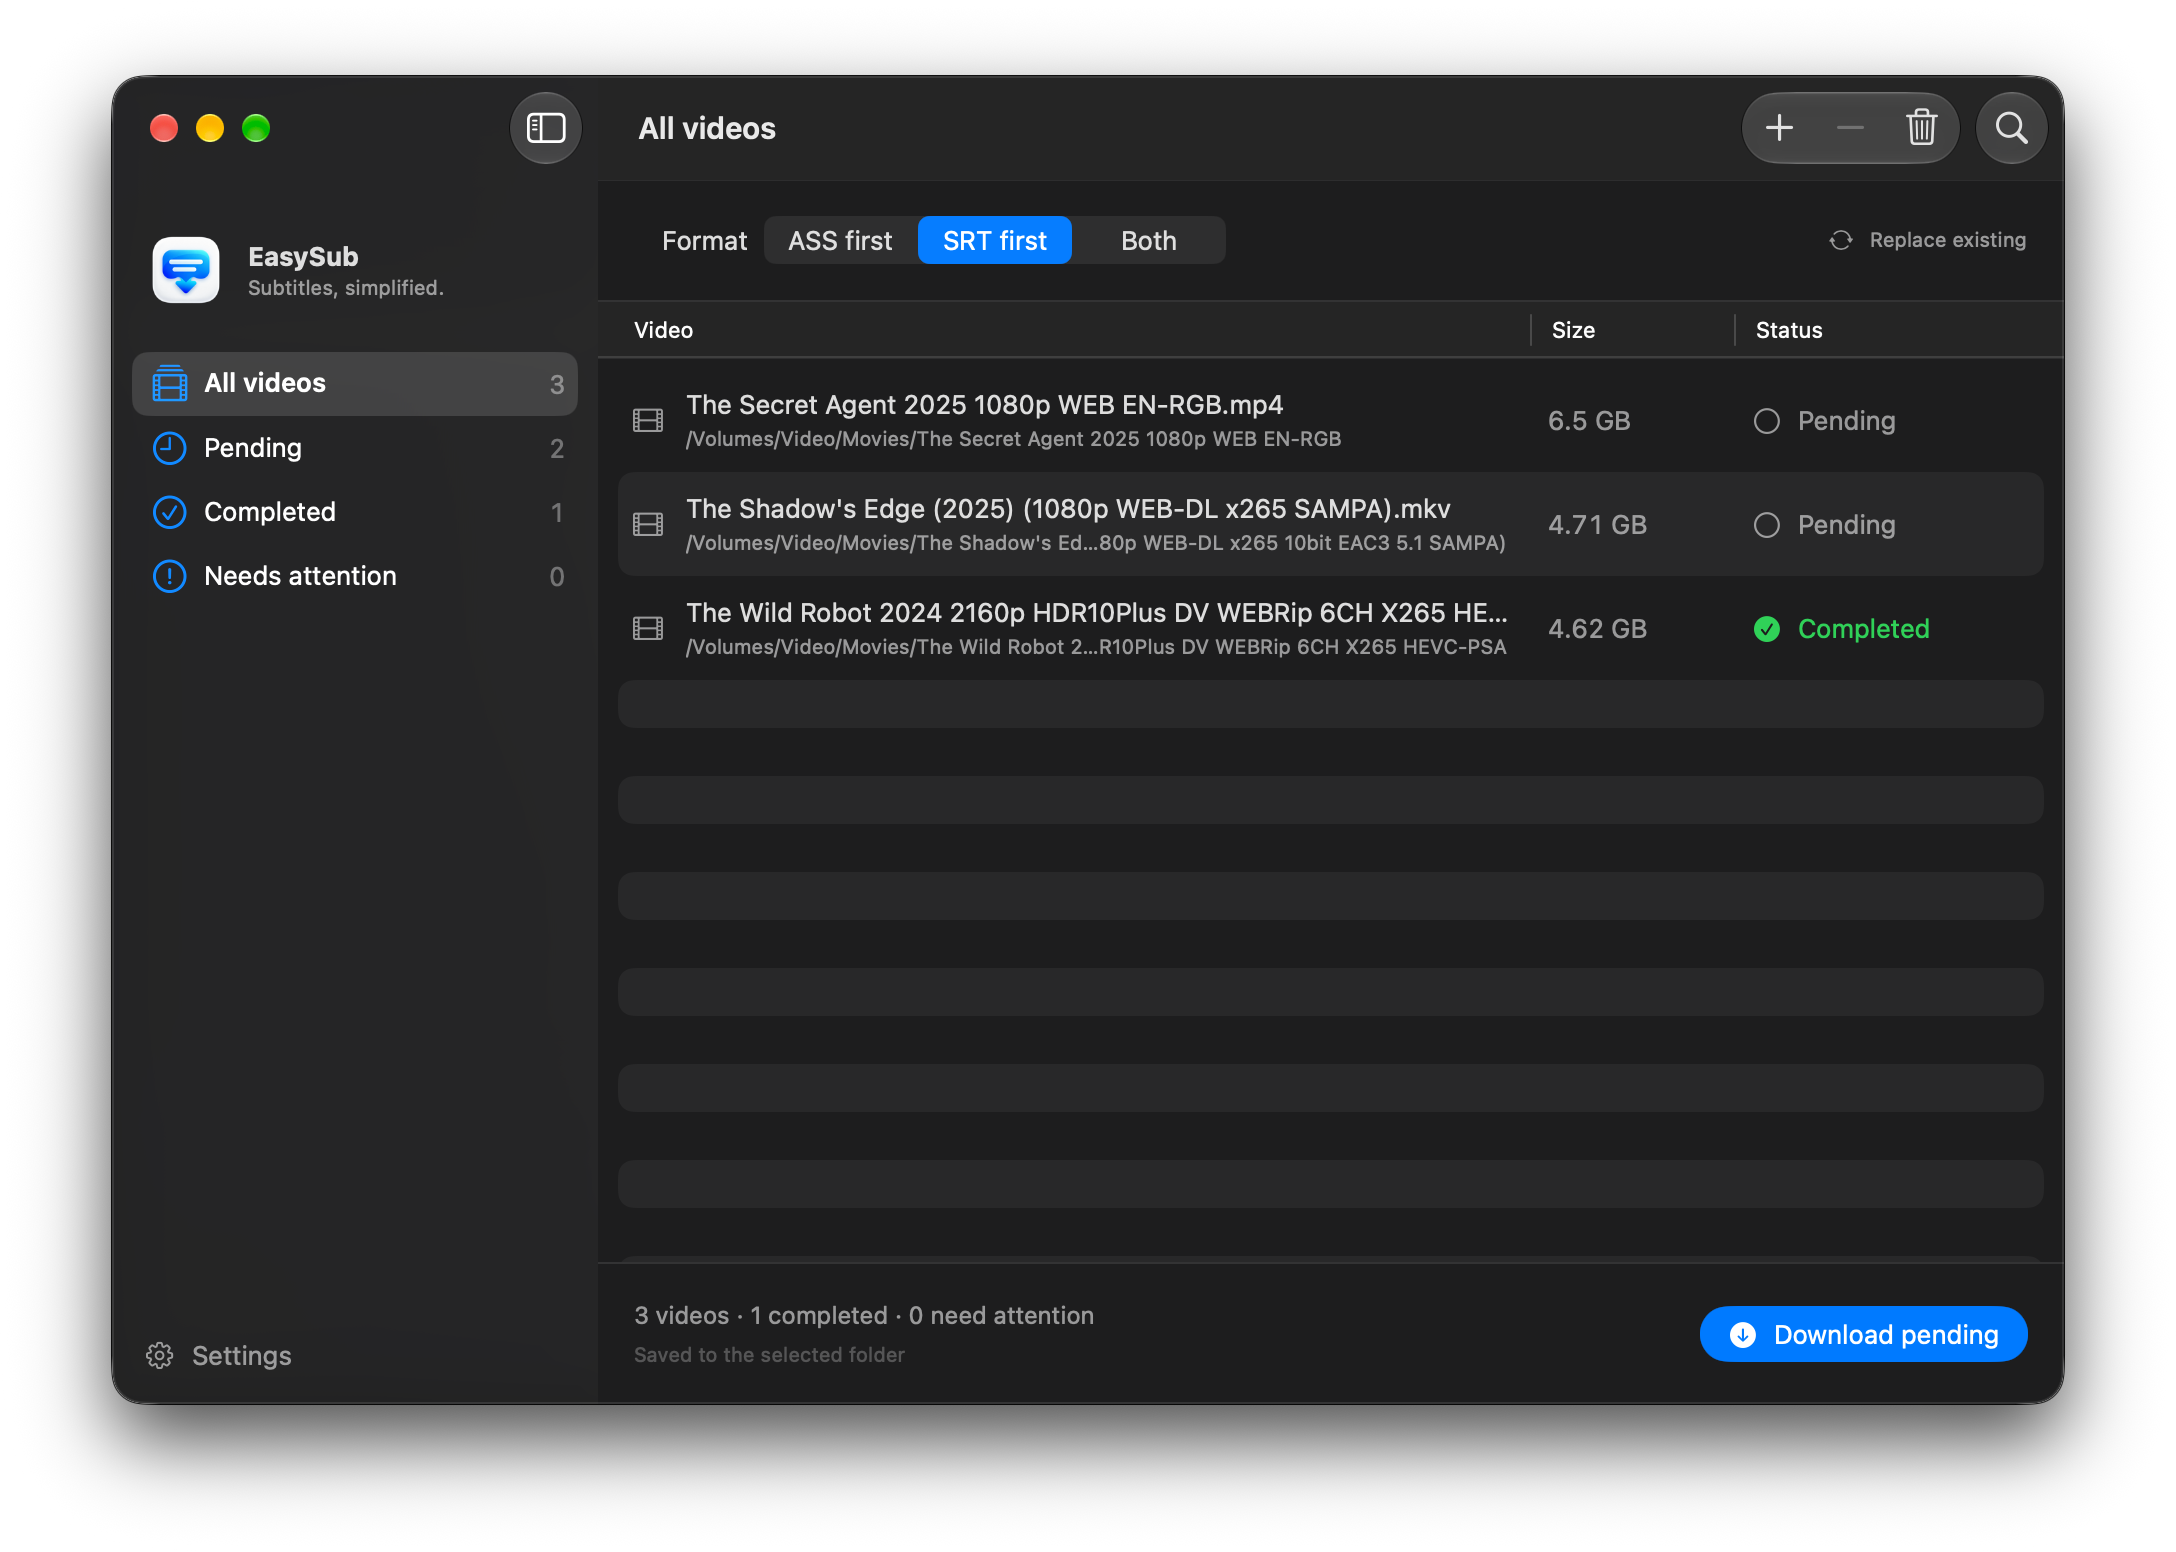
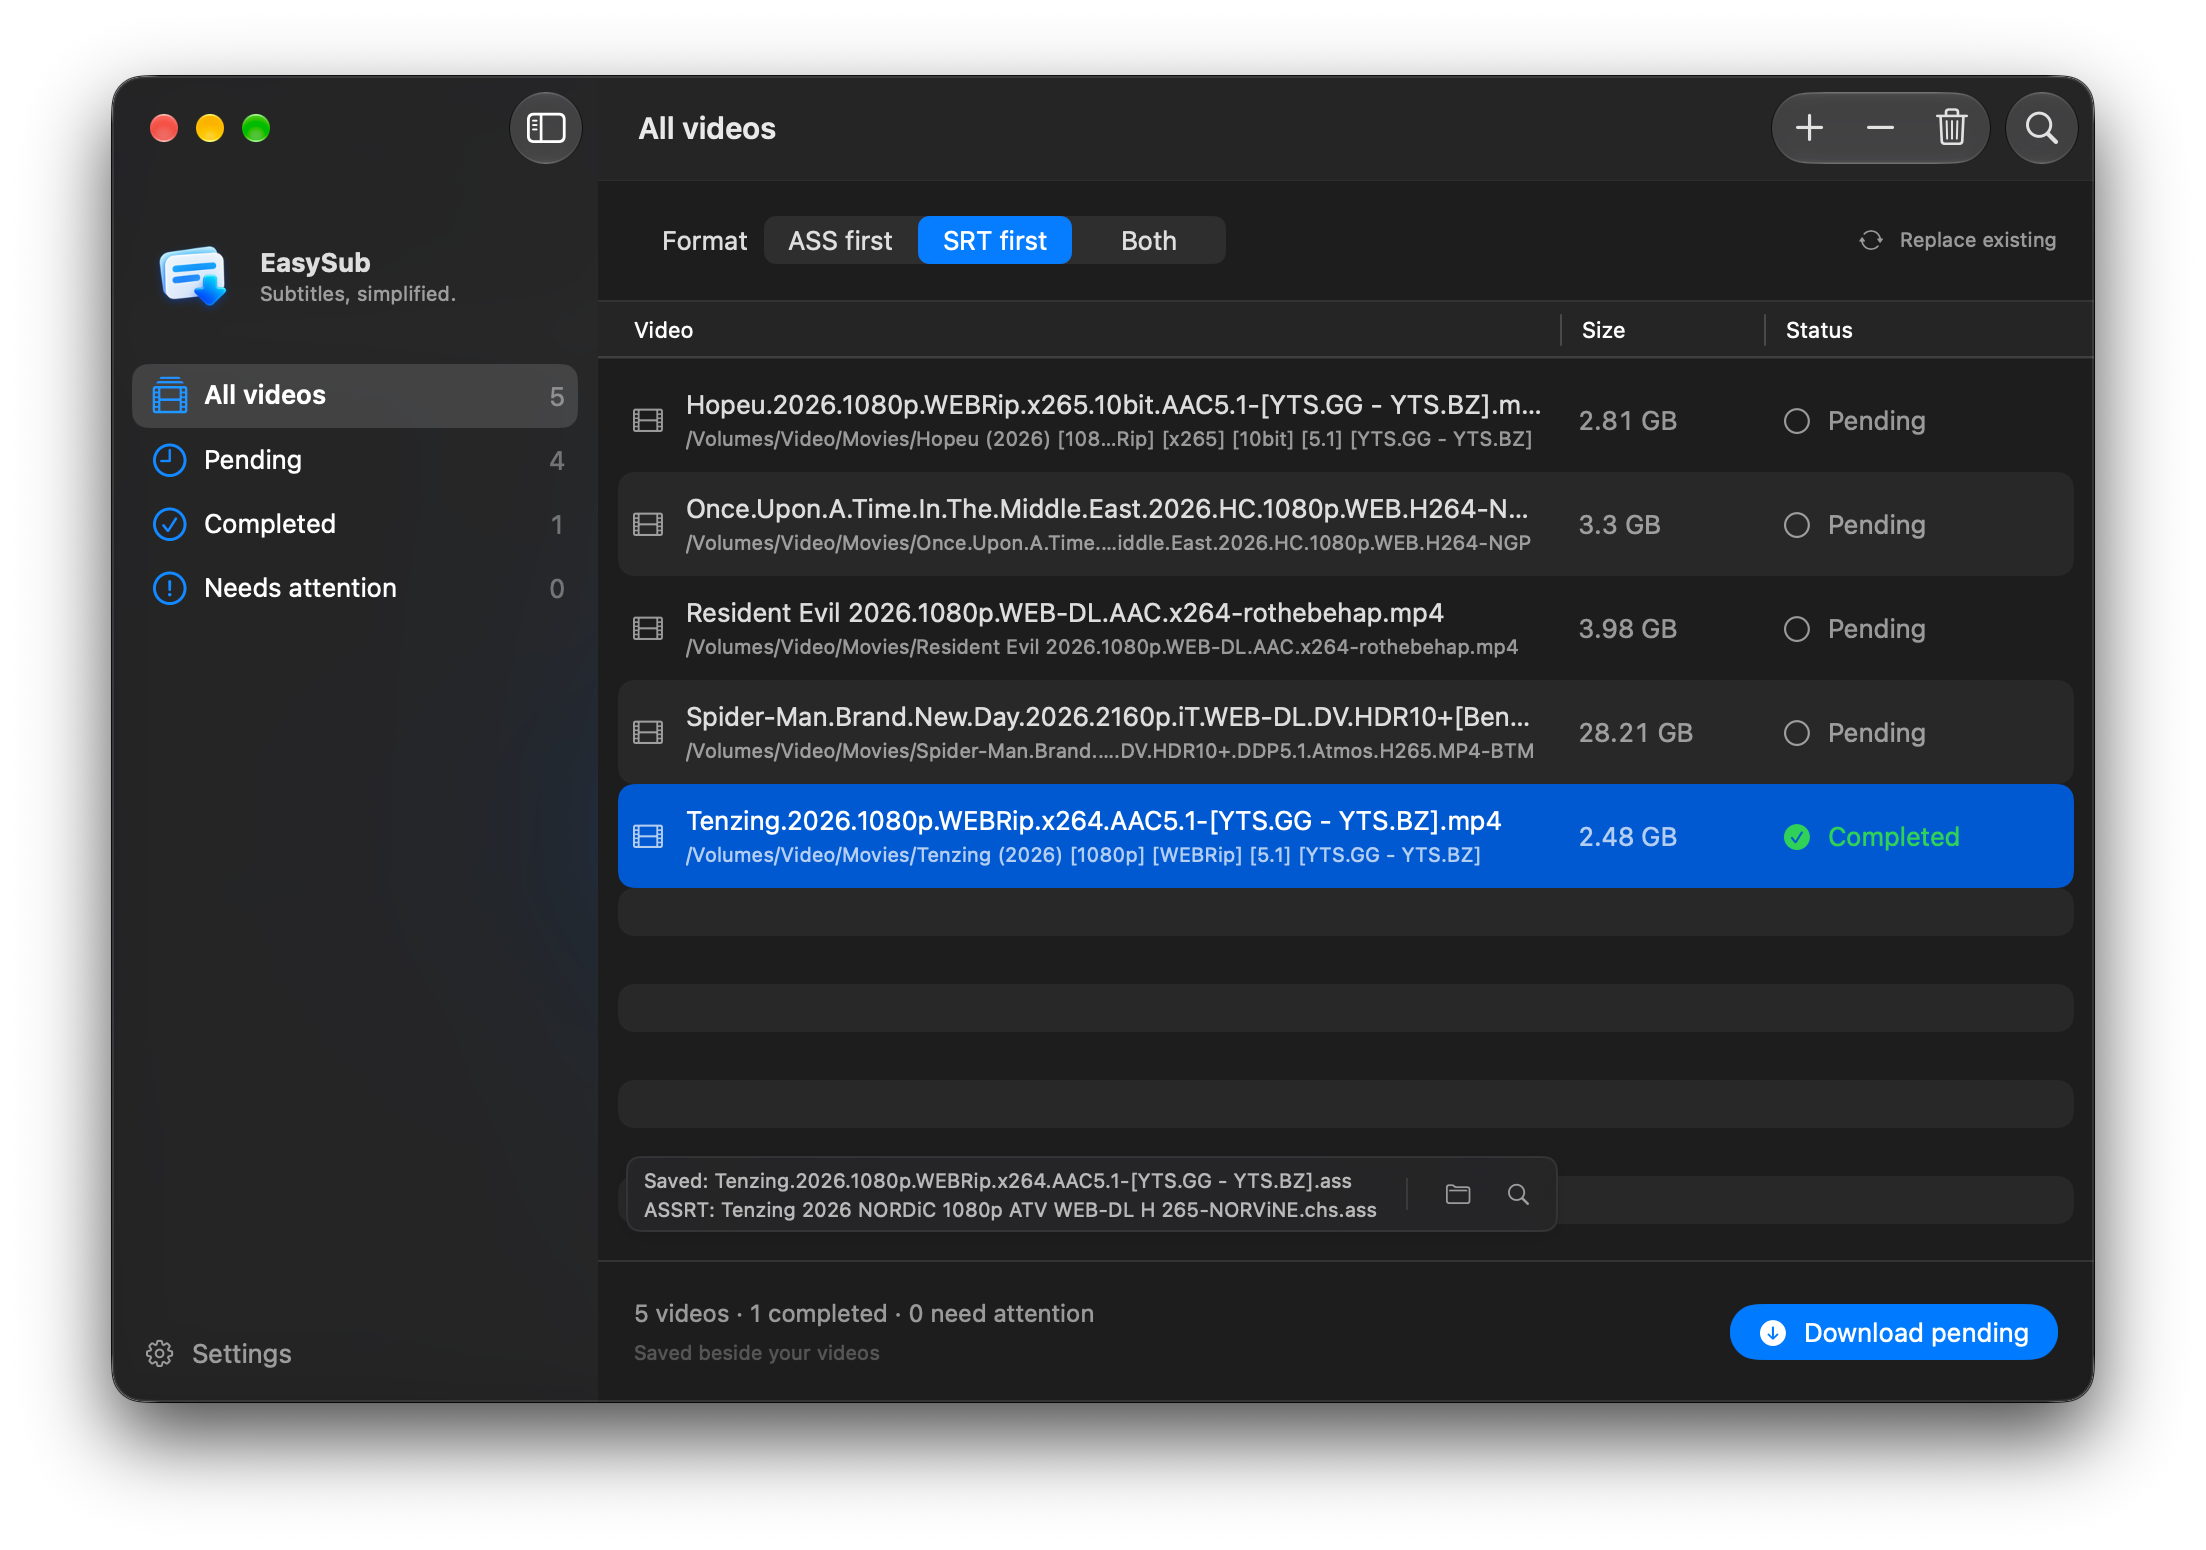
update readme.md

diff --git a/README.md b/README.md
@@ -1,5 +1,5 @@
 <p align="center">
-  <img width="180" src="EasySub/Images.xcassets/EasySubMark.imageset/EasySubMark@3x.png" alt="EasySub">
+  <img width="180" src="Docs/Images/EasySub-AppIcon.png" alt="EasySub 应用图标">
 </p>
 
 <p align="center">
@@ -67,7 +67,7 @@ xcodebuild -project EasySub.xcodeproj -scheme EasySub \
 
 默认启用迅雷字幕来源。ASSRT 需要在“设置 → 字幕来源”中启用并填写自己的 Token；Shooter 依赖视频文件指纹，适合查找特定旧版视频，但当前匹配率较低，因此默认关闭。
 
-如果自动匹配不够可靠，可以选择单个视频并点击“搜索并选择字幕”，检查候选结果后再下载。
+如果自动匹配不够可靠，可以右键单个视频并选择“手动搜索字幕”，检查候选结果后再下载。
 
 ## 📚 文档
 
